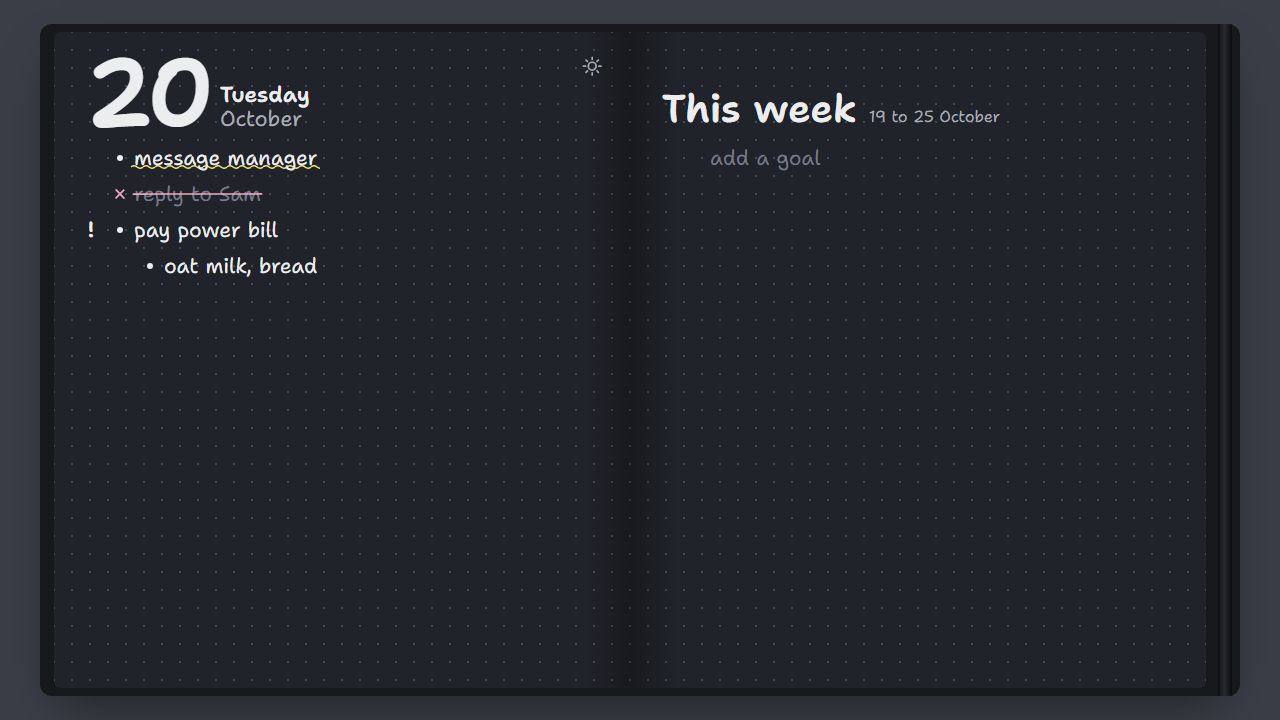
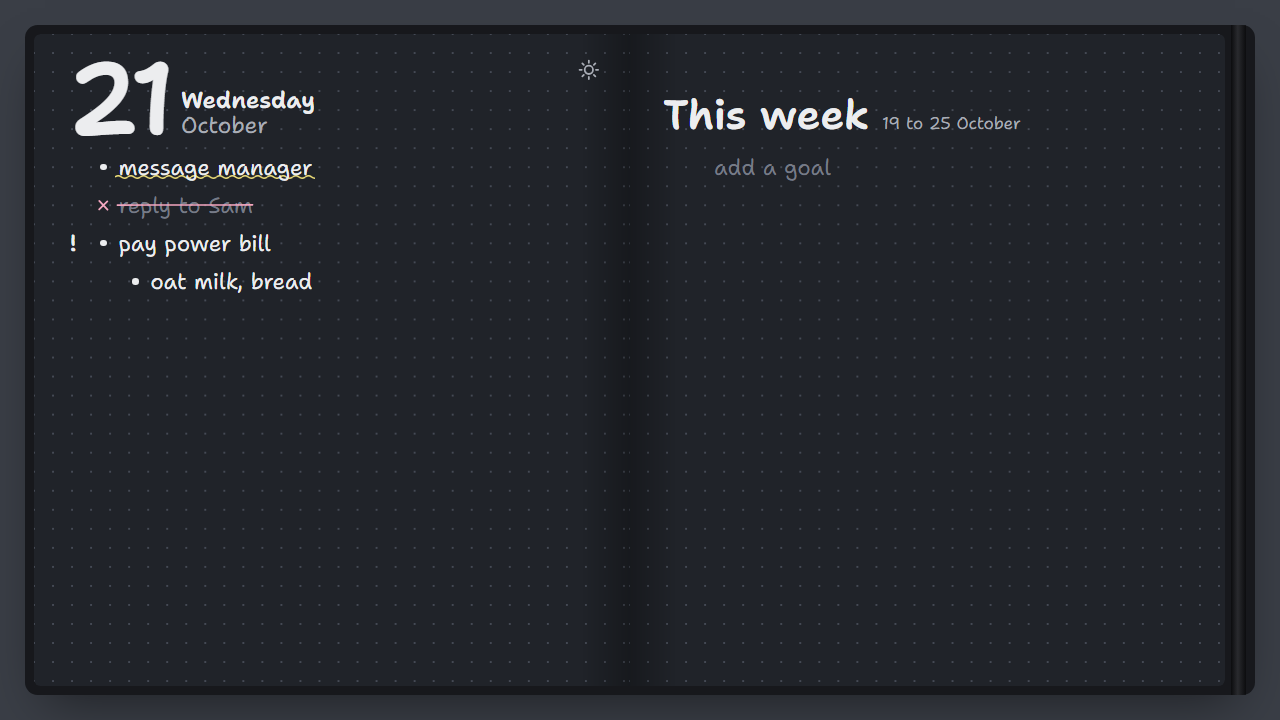
feat: scale the open journal to fill wide screens

diff --git a/e2e/today.spec.ts b/e2e/today.spec.ts
@@ -1,4 +1,5 @@
-import { test, expect } from '@playwright/test';
+import { test, expect, type Page } from '@playwright/test';
+import { write } from './helpers';
 
 test('write, cross off, survive reload', async ({ page }, testInfo) => {
   await page.goto('/');
@@ -29,4 +30,38 @@ test('write, cross off, survive reload', async ({ page }, testInfo) => {
   await expect(page.getByRole('textbox', { name: 'Task', exact: true })).toHaveCount(2);
   await expect(page.locator('li.line').first()).toHaveAttribute('data-done', 'true');
   await expect(page.getByRole('textbox', { name: 'Task', exact: true }).nth(0)).toHaveValue('reply to Sam');
+});
+
+const rootPx = (page: Page) => page.evaluate(() => parseFloat(getComputedStyle(document.documentElement).fontSize));
+
+test('desktop: the open book fills the screen and grows with it', async ({ page }, testInfo) => {
+  test.skip(testInfo.project.name !== 'desktop', 'wide layout');
+  await page.setViewportSize({ width: 1920, height: 1080 });
+  await page.goto('/');
+  await write(page, ['reply to Sam', 'groceries']);
+  await page.getByRole('textbox', { name: 'New goal', exact: true }).click();
+  await page.keyboard.type('finish cloud assignment');
+  await page.keyboard.press('Enter');
+
+  // About 1.2x at 1920px, and the book is only short of the window by the desk margin.
+  const root = await rootPx(page);
+  expect(root).toBeCloseTo(19.2, 0);
+  const book = (await page.locator('.book').boundingBox())!;
+  expect(book.width).toBeGreaterThan(1920 - 4 * root);
+  const left = (await page.locator('main').boundingBox())!;
+  const right = (await page.locator('.more-page').boundingBox())!;
+  expect(Math.abs(left.width - right.width)).toBeLessThan(2);
+  await page.screenshot({ path: 'e2e/screenshots/desktop-wide.png', animations: 'disabled' });
+
+  // 1x at the breakpoint, so nothing jumps there, and no more than 1.5x on very wide screens.
+  await page.setViewportSize({ width: 1024, height: 768 });
+  expect(await rootPx(page)).toBeCloseTo(16, 0);
+  await page.setViewportSize({ width: 3840, height: 2160 });
+  expect(await rootPx(page)).toBe(24);
+});
+
+test('phone: text stays its normal size', async ({ page }, testInfo) => {
+  test.skip(testInfo.project.name !== 'phone', 'narrow layout');
+  await page.goto('/');
+  expect(await rootPx(page)).toBe(16);
 });

diff --git a/src/styles.css b/src/styles.css
@@ -776,11 +776,17 @@ body:has(.kbd-bar) .corner {
     background: var(--desk);
   }
 
+  /* The whole journal grows with the window: 1x at 1024px, about 1.2x at 1920px, at most 1.5x.
+     Everything is sized in rem, so text, rows and dots grow together. % and rem keep the browser's font size setting. */
+  html {
+    font-size: clamp(100%, calc(0.77rem + 0.36vw), 150%);
+  }
+
   .book {
     position: relative;
     display: flex;
     justify-content: center;
-    width: min(100% - 3rem, 75rem);
+    width: calc(100% - 3rem);
     height: calc(100dvh - 3rem);
     margin: 1.5rem auto;
     padding: 0.5rem 1.75rem 0.5rem 0.5rem; /* room on the right for the elastic band */
@@ -803,7 +809,6 @@ body:has(.kbd-bar) .corner {
   /* Each page scrolls on its own. The dots scroll with the writing; the gutter shadow stays at the fold. */
   .page {
     flex: 1 1 0;
-    max-width: 36rem;
     min-height: 0;
     height: 100%;
     overflow-y: auto;

diff --git a/docs/spec.md b/docs/spec.md
@@ -25,7 +25,7 @@ Phone and laptop. Installable web app (PWA), one codebase, synced between device
 
 ## 3. Experience
 
-Layout: a dot-grid journal. Dot-grid paper, a handwritten-style font, the day's date as a large numeral at the top. Wide screens show the journal open: today on the left page, This week and old pages on the right. Phones show one page at a time, and a folded corner turns to the other. Parked alternatives: free page and desk scraps.
+Layout: a dot-grid journal. Dot-grid paper, a handwritten-style font, the day's date as a large numeral at the top. Wide screens show the journal open: today on the left page, This week and old pages on the right. The open journal fills the window and grows with it (up to one and a half times its normal size on very wide screens). Phones show one page at a time, and a folded corner turns to the other. Parked alternatives: free page and desk scraps.
 
 | Action | Desktop | Phone |
 |---|---|---|

diff --git a/README.md b/README.md
@@ -19,7 +19,7 @@ Task apps tend to feel worse than paper. Paper is always ready, crossing things 
 
 ## Features
 
-- **Dot-grid journal:** dot-grid paper, a handwritten-style font and the date as a big numeral. On a wide screen the journal lies open: today on the left, the week and old pages on the right.
+- **Dot-grid journal:** dot-grid paper, a handwritten-style font and the date as a big numeral. On a wide screen the journal lies open and fills the screen: today on the left, the week and old pages on the right.
 - **Write line by line:** Enter for a new line, Tab / Shift+Tab for one level of sub-steps, Backspace on an empty line to delete it.
 - **Cross off with a stroke:** drag the mouse or swipe a finger across a line to turn its bullet into a cross and draw a pen stroke through it. Do it again to undo.
 - **Marks:** click or tap the margin to highlight a line, or mark it ! or ?.
